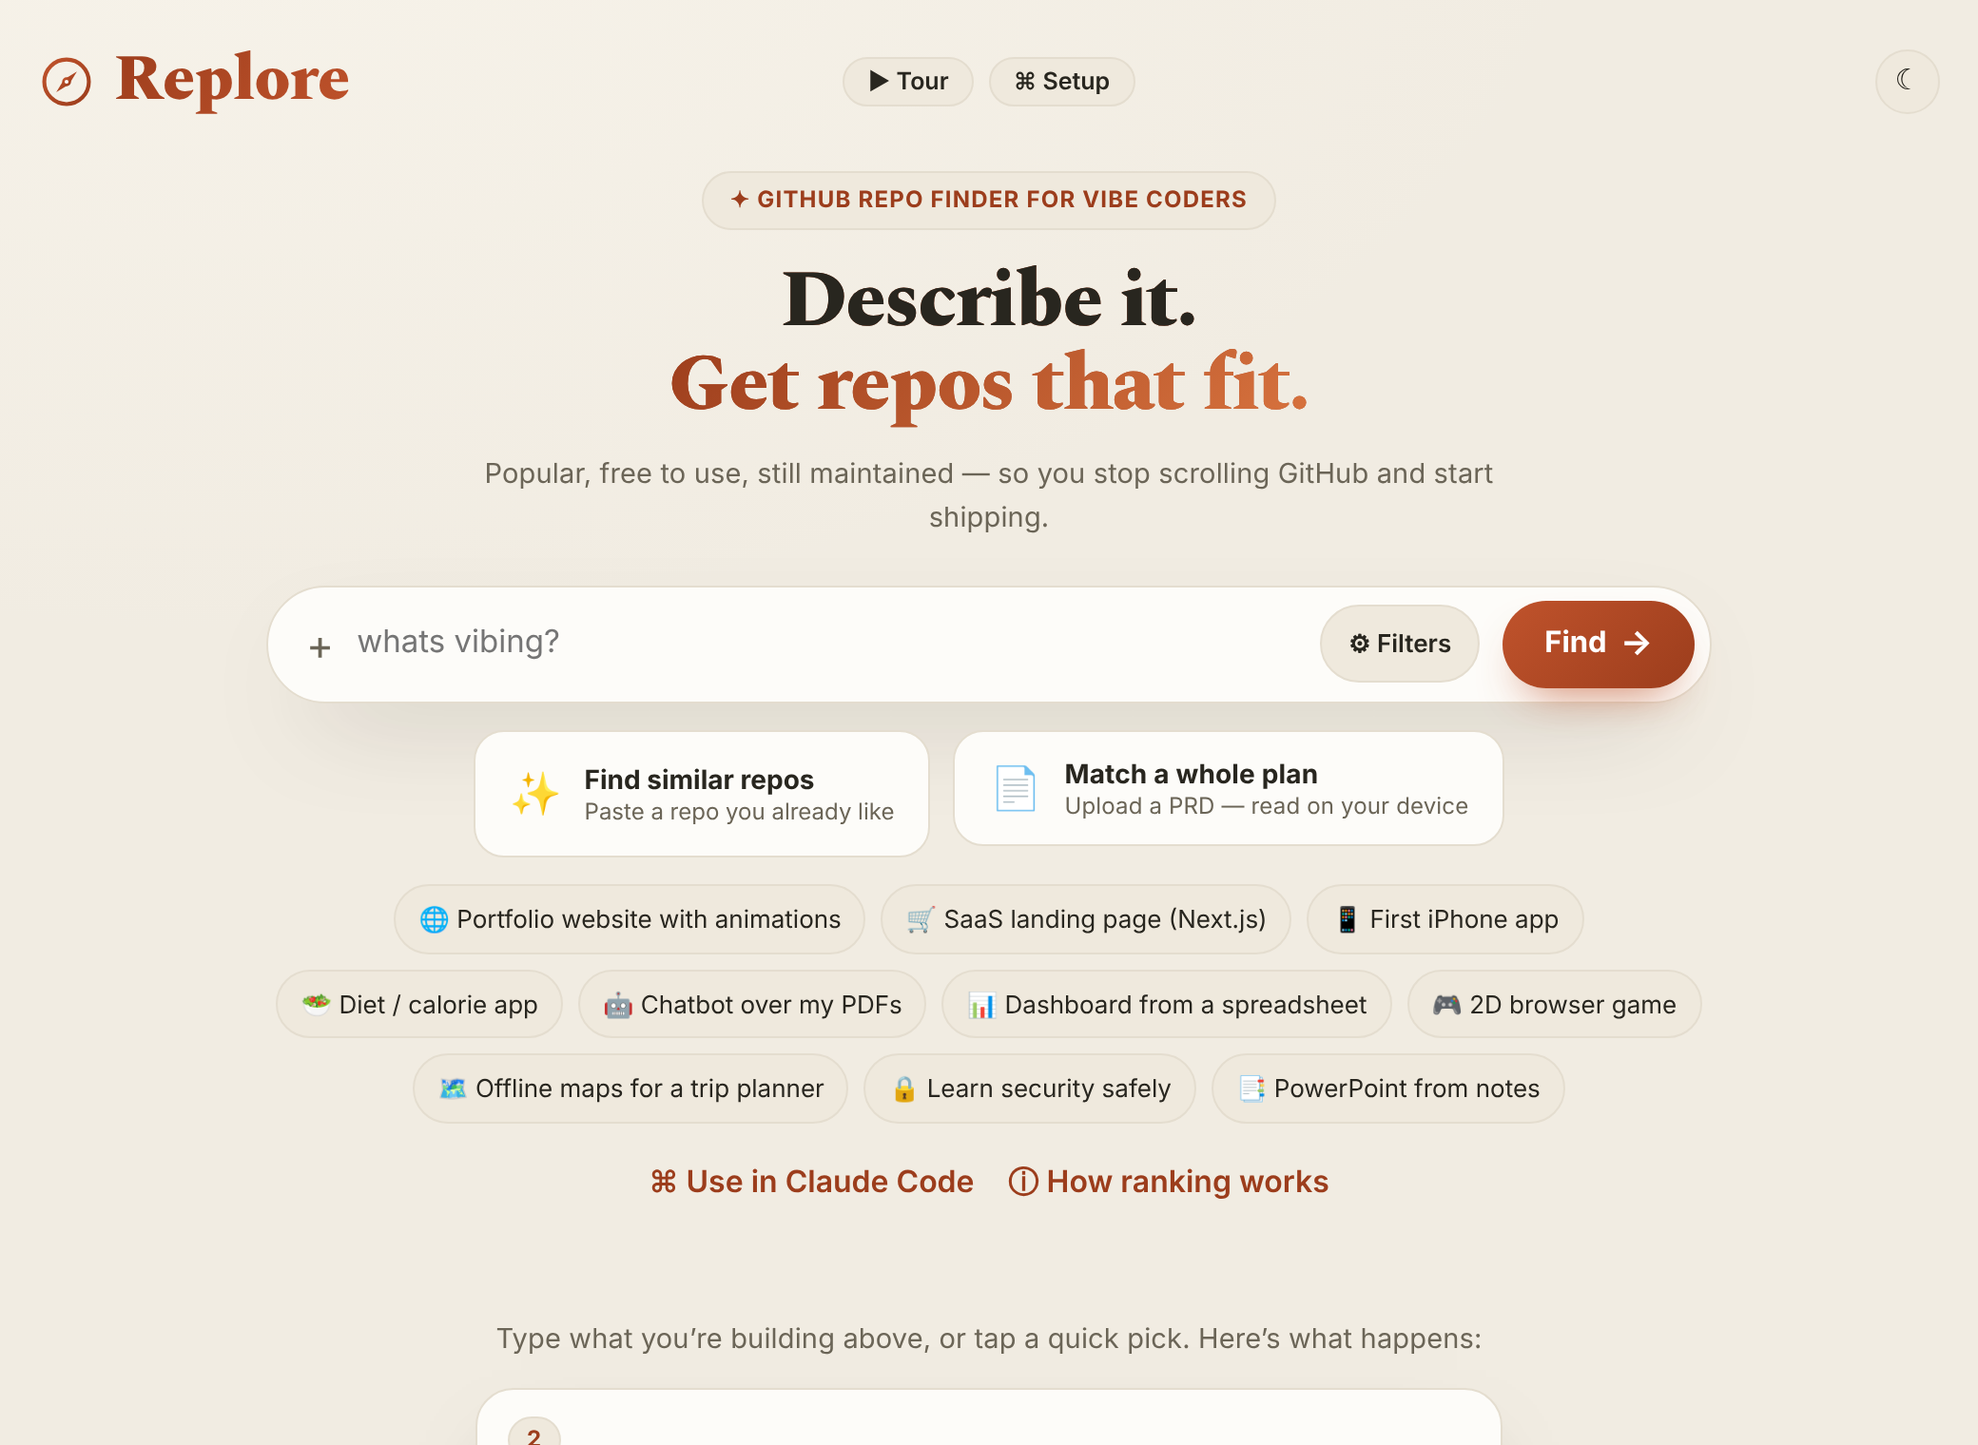
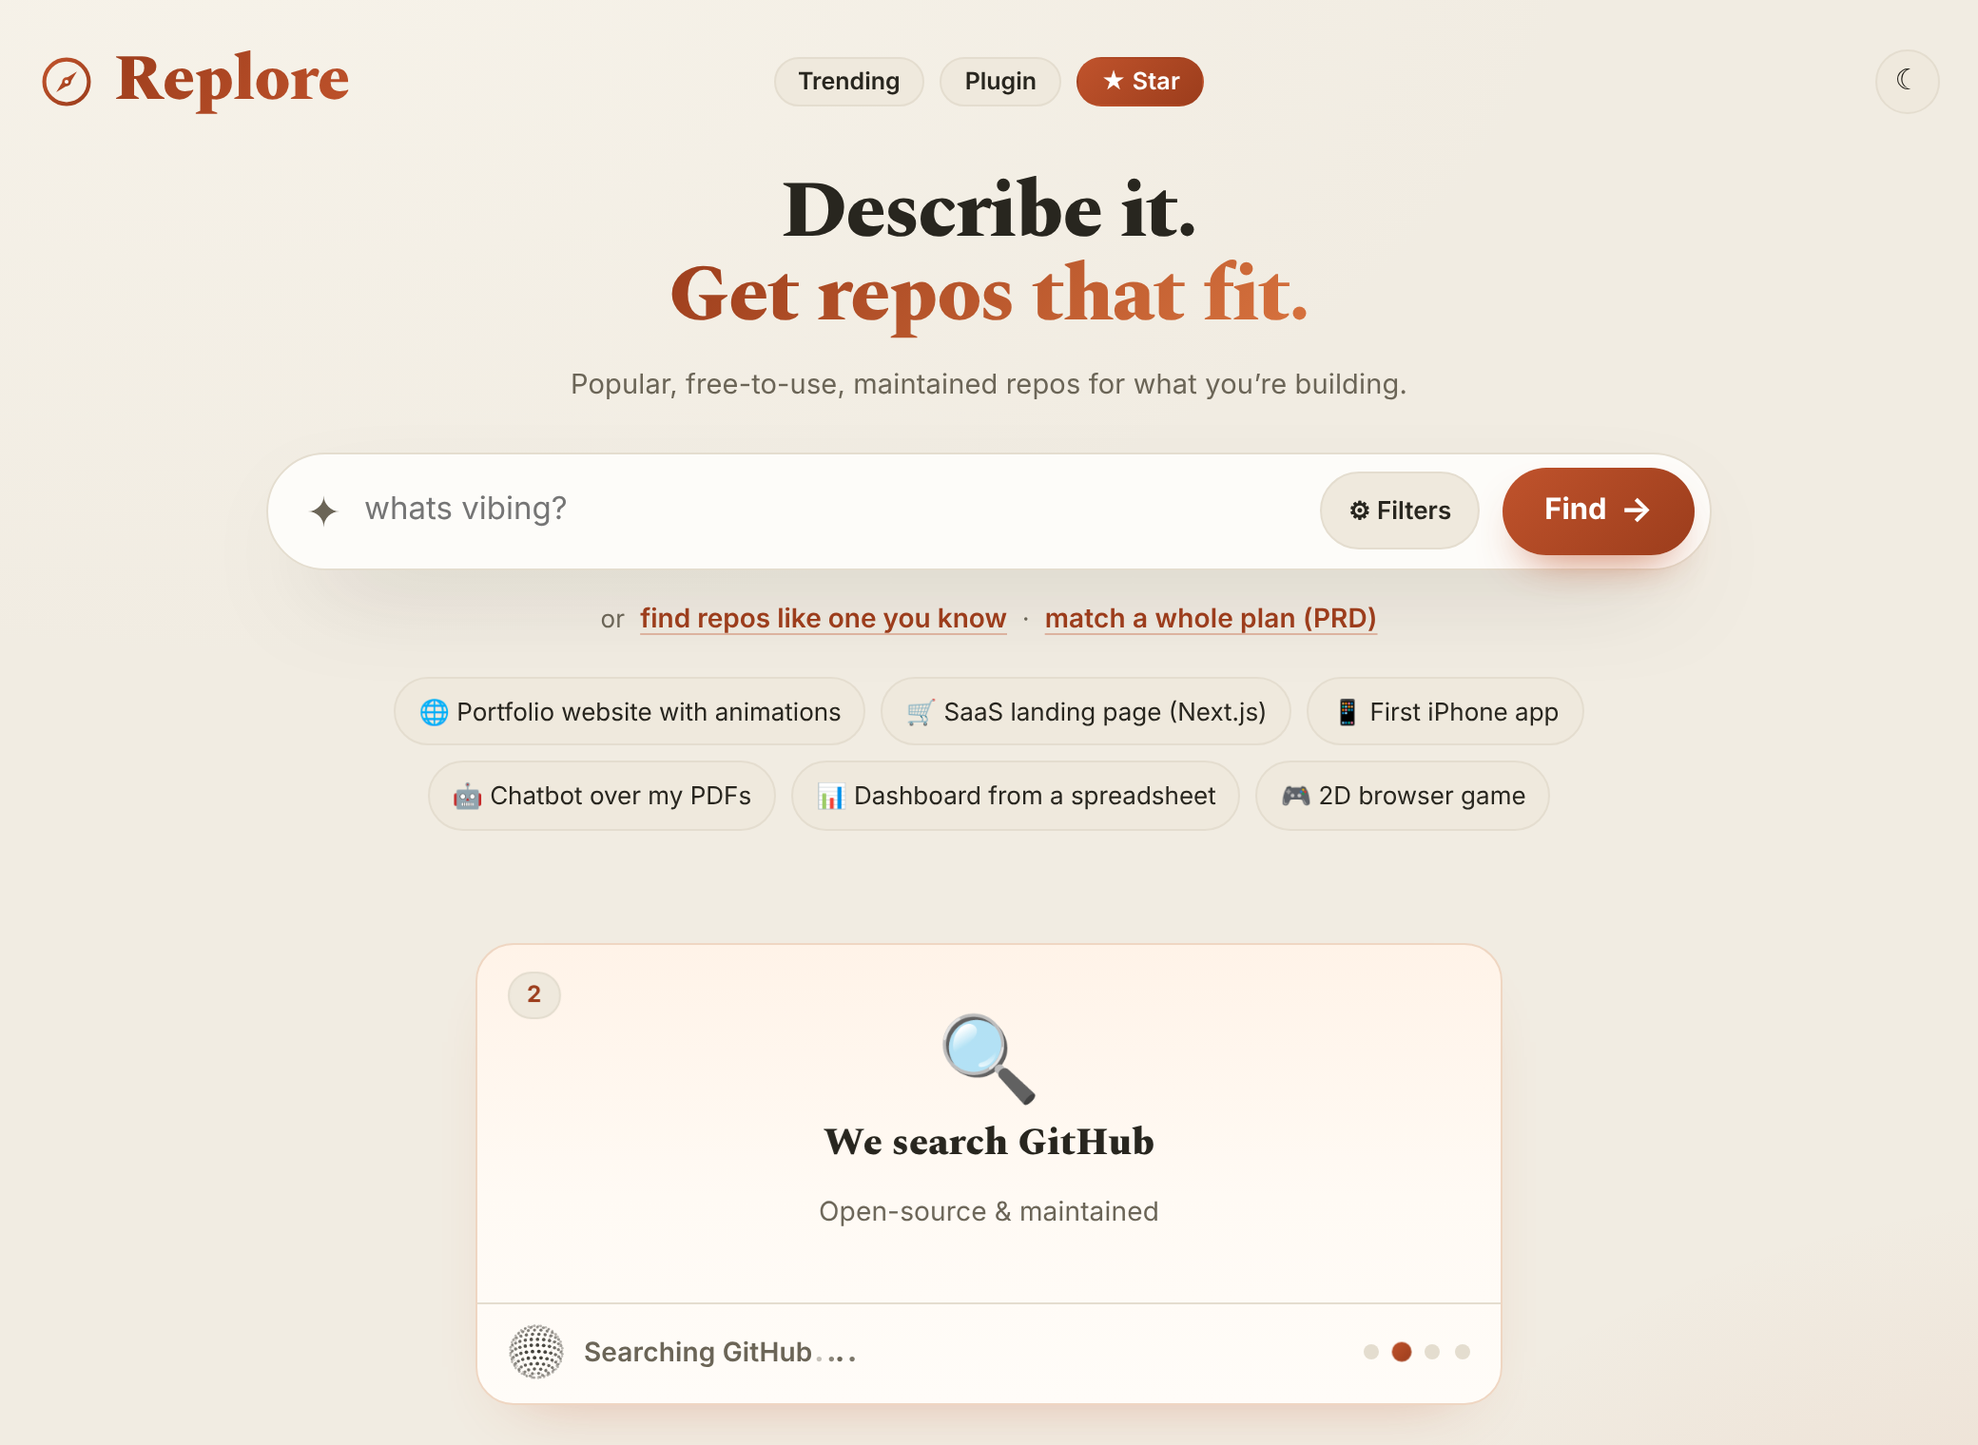
RS24/RS37: declutter pass — fewer things, clearer order, warmer cards
Owner: "UI became clunky as you kept adding stuff". Removes instead of adds:
- nav: Trending · Plugin · ★ Star; Tour / How ranking works / Next steps
  move to the footer line
- the two big mode tiles become one line of text links under the search
- 6 quick-pick pills instead of 10
- results focus: trending carousel hides once results show; licence moves
  into the verdict tooltip and meta line (no separate pill)
- light mode: faint orange wash + warm edge on cards (dark unchanged)
- phones read top-down: what it does (demo card) → search → trending
- carousel bends less on narrow screens
- Tour screenshot (web/tour.png) re-captured from the new UI, with no
  live data in it
Browser-checked 1440/390 px incl. search and reset.

Claude-Session: https://claude.ai/code/session_01NsME32HNCUKDPEFfc3nh5E

diff --git a/web/index.html b/web/index.html
@@ -17,19 +17,19 @@
 <style>
   :root{
     /* warm clay-orange accents on a half-white cream background */
-    --bg:#f1ece2; --bg2:#f7f3ea; --card:#fdfcf9; --ink:#28261f; --muted:#6b6557; --line:#e4ddcf;
+    --bg:#f1ece2; --bg2:#f7f3ea; --card:#fdfcf9; --card-bg:linear-gradient(180deg,#fff3e8 0%,#fffaf4 55%,#fffcf8 100%); --card-line:#efd6c2; --card-glow:192,83,44; --ink:#28261f; --muted:#6b6557; --line:#e4ddcf;
     --accent:#c0532c; --accent-ink:#9c3d1c; --accent2:#d9743f; --good:#5f7a3c; --warn:#a06a1e;
     --warnbg:#f3e8cb; --goodbg:#e7ecd6; --offbg:#efe9dd; --shadow:30,20,10;
   }
   @media (prefers-color-scheme: dark){
     :root:not([data-theme="light"]){
-      --bg:#1b1915; --bg2:#231f1a; --card:#2a2823; --ink:#efe9dd; --muted:#a8a192; --line:#3d3a33;
+      --bg:#1b1915; --bg2:#231f1a; --card:#2a2823; --card-bg:var(--card); --card-line:var(--line); --card-glow:0,0,0; --ink:#efe9dd; --muted:#a8a192; --line:#3d3a33;
       --accent:#bf5629; --accent-ink:#d97740; --accent2:#9a4a22; --good:#a3bf7e; --warn:#d8a95c;
       --warnbg:#342a15; --goodbg:#272f1c; --offbg:#33302a; --shadow:0,0,0;
     }
   }
   :root[data-theme="dark"]{
-    --bg:#1b1915; --bg2:#231f1a; --card:#2a2823; --ink:#efe9dd; --muted:#a8a192; --line:#3d3a33;
+    --bg:#1b1915; --bg2:#231f1a; --card:#2a2823; --card-bg:var(--card); --card-line:var(--line); --card-glow:0,0,0; --ink:#efe9dd; --muted:#a8a192; --line:#3d3a33;
     --accent:#bf5629; --accent-ink:#d97740; --accent2:#9a4a22; --good:#a3bf7e; --warn:#d8a95c;
     --warnbg:#342a15; --goodbg:#272f1c; --offbg:#33302a; --shadow:0,0,0;
   }
@@ -107,6 +107,11 @@
 
   /* two clean mode tiles (like the reference's cards) */
   .modes{display:flex;gap:12px;justify-content:center;flex-wrap:wrap}
+  .modes-links{gap:8px;align-items:baseline;font-size:14px}
+  .demo-slot:empty{display:none} .demo-slot{margin:6px 0 18px;text-align:left}
+  .mode-link{background:none;border:0;padding:0;font:inherit;font-weight:600;color:var(--accent-ink);cursor:pointer;
+    text-decoration:underline;text-decoration-color:rgba(192,83,44,.35);text-underline-offset:3px}
+  .mode-link:hover{text-decoration-color:currentColor}
   .left-more{text-align:center;margin:14px 0 4px;font-size:13px}
   .fm-modes{display:flex;flex-direction:column;gap:8px;margin:4px 0 14px}
   .fm-modes .mode-tile{width:100%;min-width:0}
@@ -430,7 +435,10 @@
   #out > *:not(.grid){animation:viewIn .45s cubic-bezier(.22,1,.36,1) both}
   .rcard.reveal{animation:viewIn .45s cubic-bezier(.22,1,.36,1) both}
   .tcar:not([hidden]){animation:fadeIn .6s ease both}
-  body.view-trending .tcar{display:none}
+  /* RS37 warm cards: a faint orange wash + warm edge in light mode so cards lift off the page (dark mode unchanged) */
+  .rcard,.tcard,.demo{background:var(--card-bg,var(--card));border-color:var(--card-line,var(--line));
+    box-shadow:0 16px 34px -24px rgba(var(--card-glow,var(--shadow)),.45)}
+  body.view-trending .tcar, body.has-results .tcar{display:none}
   body,.sheet,.demo,.tcard,.vibebar,.think,.trend-tab{transition:background-color .3s ease,border-color .3s ease,color .3s ease,box-shadow .3s ease}
   .rcard{transition:background-color .3s ease,border-color .3s ease,box-shadow .3s ease}   /* colours only: GSAP + tilt own its transform */
   .sheet{background:var(--card);border:1px solid var(--line);border-radius:16px;padding:20px;max-width:540px;width:100%;
@@ -505,10 +513,7 @@
     </svg><h1>Replore</h1></div>
   <nav class="nav" id="nav">
     <button id="trendBtn" class="nav-btn" title="Popular open-source repos right now">Trending</button>
-    <button id="tourBtn" class="nav-btn" title="Watch how it works">Tour</button>
     <button id="pluginBtn" class="nav-btn" title="Use the plugin in Claude Code, Codex, Cursor or any AI agent">Plugin</button>
-    <button id="aboutBtn" class="nav-btn" title="How results are ranked">How ranking works</button>
-    <button id="nextBtn" class="nav-btn" title="Found repos — what to do next">Next steps</button>
     <a id="starBtn" class="nav-btn nav-star" href="https://github.com/chittychat-studio/replore" target="_blank" rel="noopener" title="If Replore helped, a star on GitHub means a lot — thank you!">★ Star</a>
   </nav>
   <div class="topbar-right">
@@ -520,6 +525,7 @@
   <section class="hero">
     <h2 class="hero-title" id="heroTitle">Describe it.<br><em>Get repos that fit.</em></h2>
     <p class="sub">Popular, free-to-use, maintained repos for what you’re building.</p>
+    <div id="demoSlot" class="demo-slot"></div>   <!-- RS24: on phones the demo sits here, before the search -->
 
     <div class="search">
       <div class="vibebar">
@@ -530,15 +536,11 @@
         <button id="go" class="go-btn" title="Find repos">Find <span class="arr">→</span></button>
       </div>
 
-      <div class="modes">
-        <button class="mode-tile" id="likeTile" type="button" aria-haspopup="dialog">
-          <span class="mt-ico">✨</span>
-          <span class="mt-txt"><b>Find similar repos</b><small>A repo you like + a few words</small></span>
-        </button>
-        <label class="mode-tile" for="prd">
-          <span class="mt-ico">📄</span>
-          <span class="mt-txt"><b>Match a whole plan</b><small>Upload a plan / PRD — read locally</small></span>
-        </label>
+      <div class="modes modes-links">
+        <span class="mut">or</span>
+        <button class="mode-link" id="likeTile" type="button" aria-haspopup="dialog">find repos like one you know</button>
+        <span class="mut">·</span>
+        <label class="mode-link" for="prd">match a whole plan (PRD)</label>
         <input id="prd" type="file" accept=".md,.markdown,.txt,.text,text/plain,text/markdown" hidden>
       </div>
 
@@ -557,7 +559,10 @@
       </section>
     <div id="out" class="results"></div>
     <p class="privacy-note">🔒 Nothing you type is stored.
-      <button type="button" class="link-btn" onclick="openModal('privacyModal')">Privacy</button></p>
+      <button type="button" class="link-btn" onclick="openModal('privacyModal')">Privacy</button> ·
+      <button type="button" class="link-btn" id="tourBtn">Tour</button> ·
+      <button type="button" class="link-btn" id="aboutBtn">How ranking works</button> ·
+      <button type="button" class="link-btn" id="nextBtn">Next steps</button></p>
   </section>
 </main>
 
@@ -905,11 +910,10 @@ function cardHtml(r,i,qtokens){
     (function(w){ return w?'<div class="why">'+esc(w)+'</div>':''; })(whyRelevant(r,qtokens))+
     '<p class="desc">'+esc(r.desc||"—")+'</p>'+
     '<div class="tags">'+
-      '<span class="tag '+v.c+'" title="'+esc(paid)+' · Completely free? '+esc(free)+'">'+v.t+'</span>'+
+      '<span class="tag '+v.c+'" title="License: '+esc(r.spdx)+' · '+esc(paid)+' · Completely free? '+esc(free)+'">'+v.t+'</span>'+
       (r.starter?'<span class="tag t-star" title="A ready-made template to start your project from">Starter</span>':'')+
-      '<span class="tag t-star" title="Its open-source license">License: '+esc(r.spdx)+'</span>'+
     '</div>'+
-    '<div class="meta">updated '+esc(r.pushed)+'</div>'+
+    '<div class="meta">'+esc(r.spdx)+' · updated '+esc(r.pushed)+'</div>'+
     '<label class="pick"><input type="checkbox" class="pick-cb" data-name="'+esc(r.name)+'" data-url="'+esc(r.url)+
       '" data-desc="'+esc(r.desc||"")+'"> ＋ Add to plan</label>'+
   '</article>';
@@ -1096,9 +1100,11 @@ function buildExamples(box){
     box.appendChild(b); });
 }
 // quick-pick chips under the bar: click one to fill the box and search straight away (RS21)
+var PILL_IDX=[0,1,2,4,5,6];   // portfolio, SaaS, iPhone, PDF chatbot, spreadsheet dashboard, 2D game
 function buildQuickpicks(box){
   if(!box || box.dataset.built) return; box.dataset.built="1";
-  EXAMPLES.forEach(function(ex,i){ var b=document.createElement("button"); b.type="button"; b.className="chip";
+  EXAMPLES.forEach(function(ex,i){ if(PILL_IDX.indexOf(i)<0) return;   // RS37: six pills, not ten
+    var b=document.createElement("button"); b.type="button"; b.className="chip";
     b.textContent=ex.label; b.style.animationDelay=(i*30)+"ms";
     b.addEventListener("click",function(){ pickExample(ex); });
     box.appendChild(b); });
@@ -1639,12 +1645,12 @@ function buildTrendCarousel(){
     var cards=track.querySelectorAll(".tcard");
     // RS35 curved gallery: cards bend away from the centre like the inside of a cylinder
     function curve(){
-      var tr=track.getBoundingClientRect(), mid=tr.left+tr.width/2, half=tr.width/2||1;
+      var tr=track.getBoundingClientRect(), mid=tr.left+tr.width/2, half=tr.width/2||1, k=Math.min(1,tr.width/1000);   // gentler bend on phones
       for(var i=0;i<cards.length;i++){ var cr=cards[i].getBoundingClientRect();
         if(cr.right<tr.left-cr.width || cr.left>tr.right+cr.width) continue;   // off-screen: skip the work
         var d=Math.max(-1.4,Math.min(1.4,(cr.left+cr.width/2-mid)/half)), a=Math.abs(d);
-        cards[i].style.transform="rotateY("+(-d*24).toFixed(2)+"deg) translateZ("+(-Math.pow(a,1.6)*70).toFixed(1)+"px) scale("+(1-a*0.06).toFixed(3)+")";
-        cards[i].style.opacity=(1-Math.max(0,a-0.55)*0.55).toFixed(3); }
+        cards[i].style.transform="rotateY("+(-d*24*k).toFixed(2)+"deg) translateZ("+(-Math.pow(a,1.6)*70*k).toFixed(1)+"px) scale("+(1-a*0.06*k).toFixed(3)+")";
+        cards[i].style.opacity=(1-Math.max(0,a-0.55)*0.55*k).toFixed(3); }
     }
     track.addEventListener("scroll",function(){ requestAnimationFrame(curve); },{passive:true});
     window.addEventListener("resize",curve); curve();
@@ -1669,7 +1675,18 @@ function buildTrendCarousel(){
 }
 (function(){ var go=function(){ buildTrendCarousel(); };
   if(window.requestIdleCallback) requestIdleCallback(go,{timeout:2500}); else setTimeout(go,800); })();
+// RS24 mobile order: what it does (demo) → search → trending. Below 1000px the home demo moves above the search box;
+// on wider screens it stays in the results column. Removed as soon as results replace the home screen.
+var DEMO_MQ=window.matchMedia?matchMedia("(max-width: 999px)"):null;
+function placeDemo(){
+  var ex=document.querySelector(".explain"), slot=document.getElementById("demoSlot"), out=document.getElementById("out");
+  if(!ex||!slot||!out) return;
+  if(DEMO_MQ&&DEMO_MQ.matches){ if(ex.parentNode!==slot) slot.appendChild(ex); }
+  else if(ex.parentNode!==out && !out.querySelector(".rcard, .group-h, .err")) out.appendChild(ex);
+}
+if(DEMO_MQ){ try{ DEMO_MQ.addEventListener("change",placeDemo); }catch(e){ DEMO_MQ.addListener&&DEMO_MQ.addListener(placeDemo); } }
 function showHome(){
+  var oldSlot=document.getElementById("demoSlot"); if(oldSlot&&oldSlot.firstChild){ stopDemo("heroDemo"); oldSlot.innerHTML=""; }
   var out=document.getElementById("out");
   stopDemo("heroDemo");   // clear any previous carousel before replacing it
   out.innerHTML='<div class="explain">'+
@@ -1678,6 +1695,7 @@ function showHome(){
   var hd=document.getElementById("heroDemo"); buildDemo(hd);
   var slot=hd&&hd.querySelector(".demo-think");   // RS36: the orb lives inside the demo card's footer — one component
   if(slot){ slot.id="homeThink"; slot.innerHTML=thinkPill(STEPS[0].doing); startHomeThinking(slot, hd); }
+  placeDemo();
   if(window.__resetPicks) window.__resetPicks();
 }
 // remember the last results so a page refresh brings them back (cached locally, no new API call)
@@ -1726,7 +1744,9 @@ function syncClearQ(){ var x=document.getElementById("clearQ"); if(!x) return;
     || document.querySelector("#out .rcard, #out .group-h, #out .err"));   // results on screen also count
   // RS24: with results on a single-column screen, fold the intro so the search bar sits right above the matches
   document.body.classList.toggle("has-results", !!document.querySelector("#out .rcard, #out .group-h"));
-  document.body.classList.toggle("view-trending", !!document.querySelector("#out .trend-tabs")); }   // RS35: no Rising twice
+  document.body.classList.toggle("view-trending", !!document.querySelector("#out .trend-tabs"));   // RS35: no Rising twice
+  var ds=document.getElementById("demoSlot");   // RS24: a demo moved above the search goes once results show
+  if(ds && ds.firstChild && document.querySelector("#out .rcard, #out .group-h, #out .err")){ stopDemo("heroDemo"); ds.innerHTML=""; } }
 (function(){ var brand=document.getElementById("brandHome"), x=document.getElementById("clearQ");
   if(brand){ brand.addEventListener("click",resetAll);
     brand.addEventListener("keydown",function(e){ if(e.key==="Enter"||e.key===" "){ e.preventDefault(); resetAll(); } }); }

diff --git a/tests/test_web_logic.js b/tests/test_web_logic.js
@@ -6,7 +6,7 @@ const code = html.match(/<script>([\s\S]*)<\/script>/)[1].replace('"use strict";
 const el = () => ({value:"",checked:false,textContent:"",innerHTML:"",type:"",className:"",dataset:{},style:{},
                    addEventListener(){}, appendChild(){}, focus(){}, querySelector:()=>el(), querySelectorAll:()=>[],
                    classList:{add(){},remove(){},toggle(){}}, getAttribute:()=>null, setAttribute(){}, clientWidth:560});
-global.document = {getElementById: el, createElement: el, querySelectorAll:()=>[], addEventListener(){},
+global.document = {getElementById: el, createElement: el, querySelectorAll:()=>[], querySelector:()=>null, addEventListener(){},
                    documentElement: el()};
 global.matchMedia = () => ({matches:false});
 global.fetch = () => Promise.reject(new Error("no network in tests"));   // RS35 carousel must not reach GitHub from CI

diff --git a/tests/test_scout.py b/tests/test_scout.py
@@ -640,7 +640,7 @@ def test_web_page_is_safe_static(monkeypatch):
     # RS35 trending: gallery tabs + home carousel; API-sorted, not scraped; no auto-rotate under reduced motion
     assert "function showTrending" in html and 'id="trendCar"' in html and 'id="trendBtn"' in html
     assert "&sort=" in html and "github.com/trending" not in html
-    assert "body.view-trending .tcar{display:none}" in html  # no Rising list twice
+    assert "body.view-trending .tcar, body.has-results .tcar{display:none}" in html  # no Rising list twice; results focus
     assert 'prefers-reduced-motion: reduce)").matches) return;' in html
     # RS36 thinking orb pill: dotted sphere + label, under the home demo and as the search loading indicator
     assert "function startDotOrb" in html and "function think(" in html and 'id="homeThink"' in html

diff --git a/SPEC.md b/SPEC.md
@@ -153,7 +153,11 @@ Replore is a Claude Code plugin that returns the top 20 open-source GitHub repos
   scrolls (results scroll inside their panel); single column with natural scroll on phones; on single-column screens, once results are shown the intro (tagline, mode tiles) folds away and the
    quick picks shrink to one swipeable row so the search bar and pills sit right above the matches (✕ or the logo brings the rest back; the Filters
    sheet also offers "Find similar repos" and "Match a whole plan", so both modes stay one tap away), and the
-   privacy line sits below the results, not in the search panel. Desktop stays one top-down column (owner's decision: no split screen) but
+   privacy line sits below the results, not in the search panel. On phones (below 1000px) the home screen reads top-down as
+   what it does (the demo card) → the search → trending; the nav is Trending · Plugin · ★ Star, with Tour, How ranking
+   works and Next steps in the footer line; the two search modes are one line of text links under the search; six
+   quick-pick pills; the trending carousel hides once results show; result cards show the licence inside the verdict
+   (tooltip) and the meta line, not as a separate pill; cards carry a faint orange wash in light mode. Desktop stays one top-down column (owner's decision: no split screen) but
    uses the width: from 1200px the page spans up to 1500px, the search area up to 1100px (wider bar, tiles and pill
    rows), and the trending carousel (4 cards, 5 from 1500px) and results (4 columns) span the full page width. On the home
    screen (no results yet) the opening section pairs the heading (centred over the search box), search, tiles and pills with the animated
